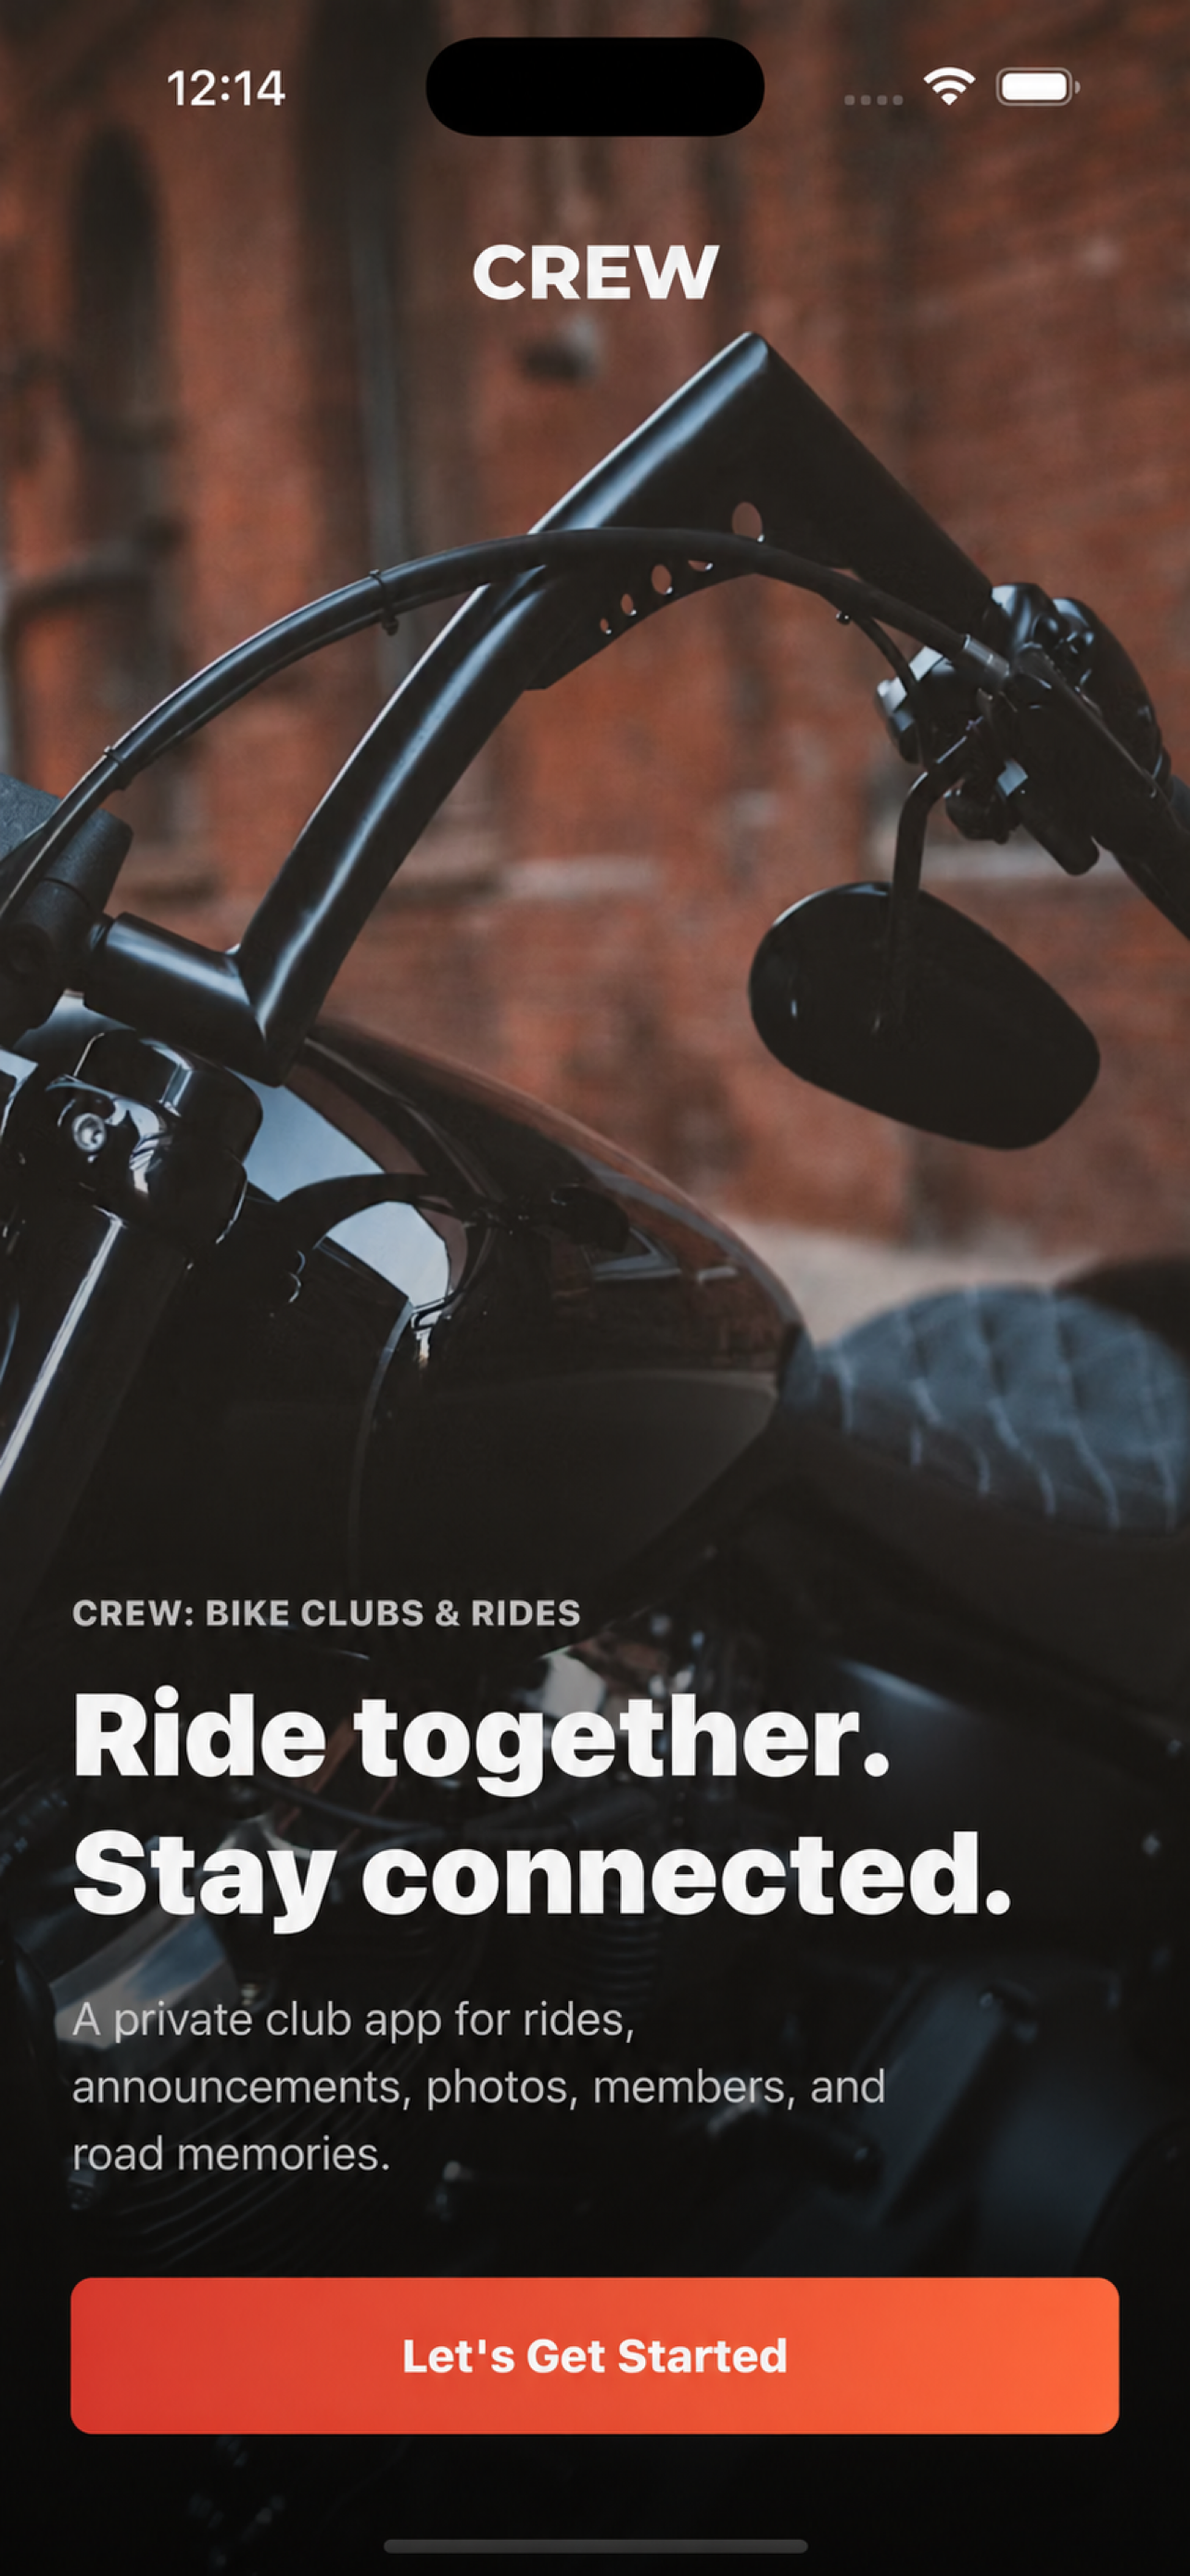
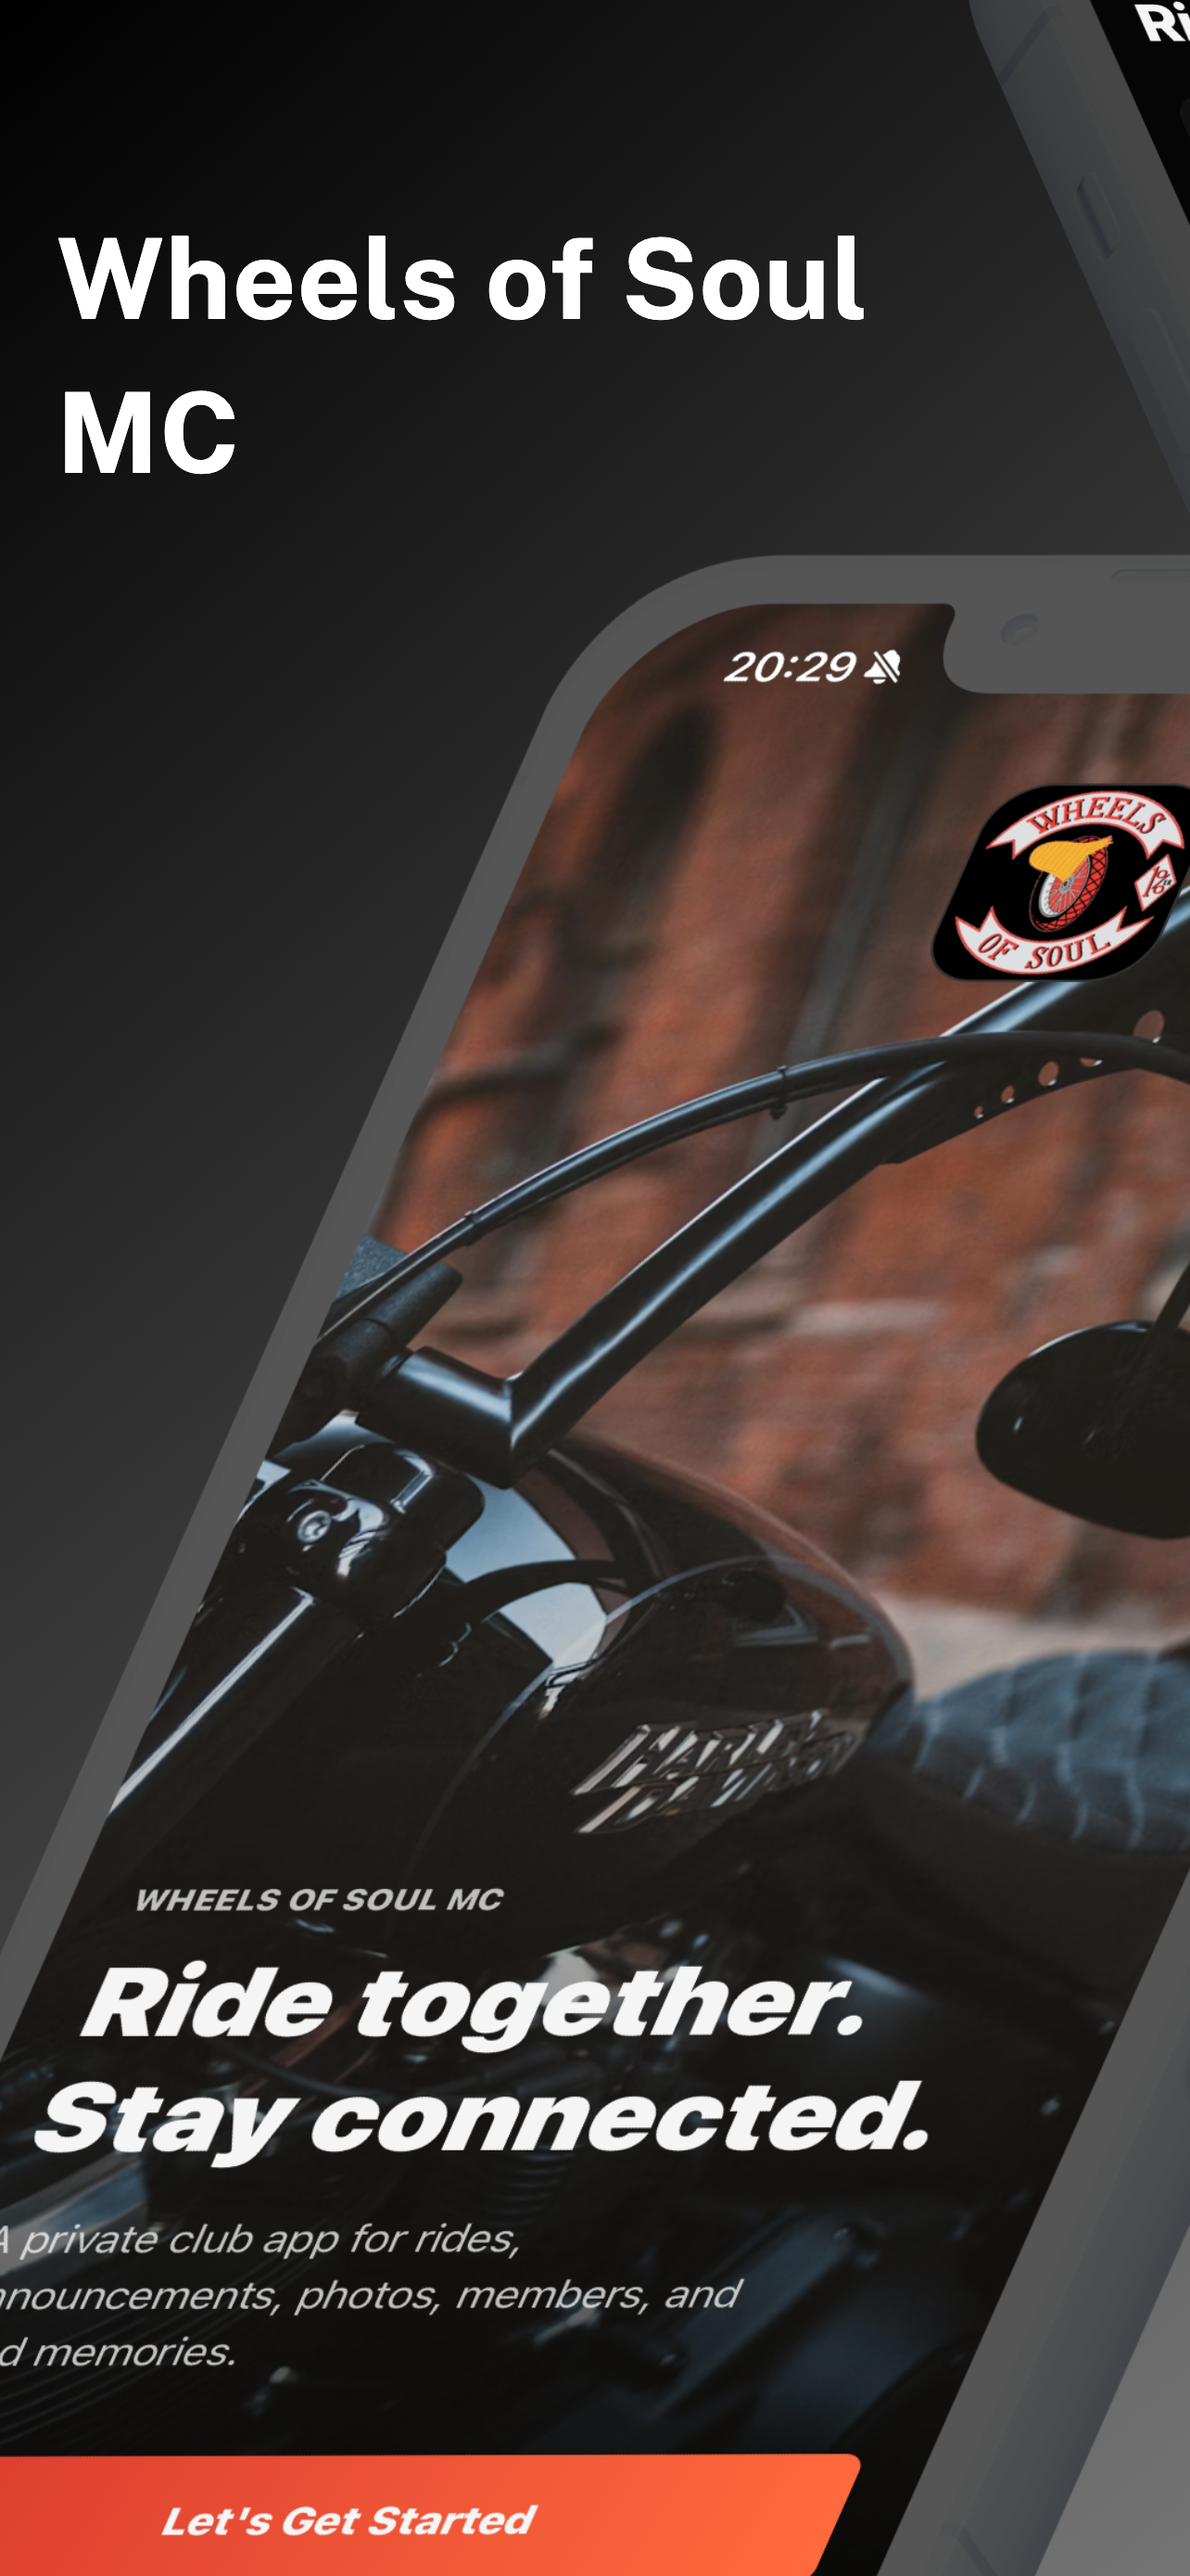
Restore Wheels of Soul branding for 1.2.4

diff --git a/expo/app/subscription.tsx b/expo/app/subscription.tsx
@@ -249,7 +249,7 @@ export default function SubscriptionScreen() {
           route: '/subscription',
           properties: { selectedPlan },
         });
-        Alert.alert('Subscription Active', 'Crew Pro is active for this account.');
+        Alert.alert('Subscription Active', 'Wheels of Soul MC Pro is active for this account.');
         return;
       }
 
@@ -328,7 +328,7 @@ export default function SubscriptionScreen() {
             <Shield size={32} color={colors.textTertiary} />
             <Text style={styles.accessDeniedTitle}>Admins Only</Text>
             <Text style={styles.accessDeniedText}>
-              Members never need to subscribe. A club admin handles Crew Pro for the club.
+              Members never need to subscribe. A club admin handles Wheels of Soul MC Pro for the club.
             </Text>
           </View>
         </SafeAreaView>
@@ -369,7 +369,7 @@ export default function SubscriptionScreen() {
                 style={styles.heroImageOverlay}
               />
               <View style={styles.heroTextContainer}>
-                <Text style={styles.heroEyebrow}>Crew Pro</Text>
+                <Text style={styles.heroEyebrow}>Wheels of Soul MC Pro</Text>
                 <Text style={styles.heroTitle}>Keep the club connected.</Text>
                 <Text style={styles.heroSubtitle}>
                   One active club admin subscription supports private rides, announcements, photos, members, and stats.

diff --git a/expo/app/(tabs)/(home)/index.tsx b/expo/app/(tabs)/(home)/index.tsx
@@ -13,7 +13,6 @@ import AnnouncementCard from '@/components/AnnouncementCard';
 import RideCard from '@/components/RideCard';
 import { getAvatarSource } from '@/utils/avatar';
 import { getFriendlyErrorMessage } from '@/utils/errorMessages';
-import { getClubDisplayName } from '@/constants/club';
 
 export default function HomeScreen() {
   const insets = useSafeAreaInsets();
@@ -72,7 +71,7 @@ export default function HomeScreen() {
           <View style={[styles.heroTop, { paddingTop: insets.top + 8 }]}>
             <View>
               <Text style={styles.eyebrow}>Private Club</Text>
-              <Text style={styles.crewName}>{getClubDisplayName(crew?.name)}</Text>
+              <Text style={styles.crewName}>{crew?.name || 'Wheels of Soul MC'}</Text>
             </View>
             <Pressable style={styles.profileButton} onPress={() => router.push('/(tabs)/more')}>
               {currentUser?.avatar ? (

diff --git a/expo/constants/club.ts b/expo/constants/club.ts
@@ -1,5 +1,5 @@
 export const CLUB_ID = process.env.EXPO_PUBLIC_CLUB_ID || 'presidents-mc';
-export const CLUB_NAME = process.env.EXPO_PUBLIC_CLUB_NAME || 'Crew: Bike Clubs & Rides';
+export const CLUB_NAME = process.env.EXPO_PUBLIC_CLUB_NAME || 'Wheels of Soul MC';
 export const CLUB_DESCRIPTION =
   process.env.EXPO_PUBLIC_CLUB_DESCRIPTION ||
   'Private biker club rides, announcements, members, photos, and stats.';
@@ -9,11 +9,7 @@ export function getClubDisplayName(name?: string | null) {
   if (!trimmedName) return CLUB_NAME;
 
   const normalizedName = trimmedName.toLowerCase().replace(/[^a-z0-9]/g, '');
-  if (
-    normalizedName === 'presidentsmc' ||
-    normalizedName === 'pmc' ||
-    normalizedName === 'wheelsofsoulmc'
-  ) {
+  if (normalizedName === 'presidentsmc' || normalizedName === 'pmc') {
     return CLUB_NAME;
   }
 

diff --git a/expo/app/create-crew-paywall.tsx b/expo/app/create-crew-paywall.tsx
@@ -505,7 +505,7 @@ export default function CreateCrewPaywallScreen() {
                 style={styles.heroImageOverlay}
               />
               <View style={styles.heroTextContainer}>
-                <Text style={styles.heroEyebrow}>Crew Pro</Text>
+                <Text style={styles.heroEyebrow}>Wheels of Soul MC Pro</Text>
                 <Text style={styles.heroTitle}>Become a Crew Admin</Text>
                 <Text style={styles.heroSubtitle}>
                   Create and manage your own private crew. Members always join free.

diff --git a/expo/constants/__tests__/club.test.ts b/expo/constants/__tests__/club.test.ts
@@ -8,10 +8,6 @@ describe('getClubDisplayName', () => {
     }
   );
 
-  it('replaces the retired Wheels of Soul club name', () => {
-    expect(getClubDisplayName('Wheels of Soul MC')).toBe('Crew: Bike Clubs & Rides');
-  });
-
   it('preserves a genuinely customized club name', () => {
     expect(getClubDisplayName('Wheels of Soul Baltimore')).toBe('Wheels of Soul Baltimore');
   });

diff --git a/README.md b/README.md
@@ -1,17 +1,17 @@
-# Crew: Bike Clubs & Rides
+# Wheels of Soul MC
 
-Crew: Bike Clubs & Rides is a private motorcycle club app for rides, announcements, members, shared albums, club stats, and road memories.
+Wheels of Soul MC is a private motorcycle club app for rides, announcements, members, shared albums, club stats, and road memories.
 
 The club wanted one place to coordinate rides, approve members, post announcements, share photos, and keep track of road memories without using a mix of group chats and social media.
 
 ## Screenshots
 
 <p>
-  <img src="./expo/docs/screenshots/onboarding.png" alt="Crew onboarding screen" width="220" />
-  <img src="./expo/docs/screenshots/home.png" alt="Crew home screen" width="220" />
-  <img src="./expo/docs/screenshots/rides.png" alt="Crew rides screen" width="220" />
-  <img src="./expo/docs/screenshots/albums.png" alt="Crew albums screen" width="220" />
-  <img src="./expo/docs/screenshots/announcements.png" alt="Crew announcements screen" width="220" />
+  <img src="./expo/docs/screenshots/onboarding.png" alt="PresidentsMC onboarding screen" width="220" />
+  <img src="./expo/docs/screenshots/home.png" alt="PresidentsMC home screen" width="220" />
+  <img src="./expo/docs/screenshots/rides.png" alt="PresidentsMC rides screen" width="220" />
+  <img src="./expo/docs/screenshots/albums.png" alt="PresidentsMC albums screen" width="220" />
+  <img src="./expo/docs/screenshots/announcements.png" alt="PresidentsMC announcements screen" width="220" />
 </p>
 
 ## What It Does

diff --git a/expo/README.md b/expo/README.md
@@ -1,6 +1,6 @@
-# Crew: Bike Clubs & Rides
+# Wheels of Soul MC
 
-Crew: Bike Clubs & Rides is a private motorcycle club app for rides, announcements, members, shared albums, club stats, and road memories.
+Wheels of Soul MC is a private motorcycle club app for rides, announcements, members, shared albums, club stats, and road memories.
 
 This folder contains the Expo app. See the root [README](../README.md) for the public project overview.
 
